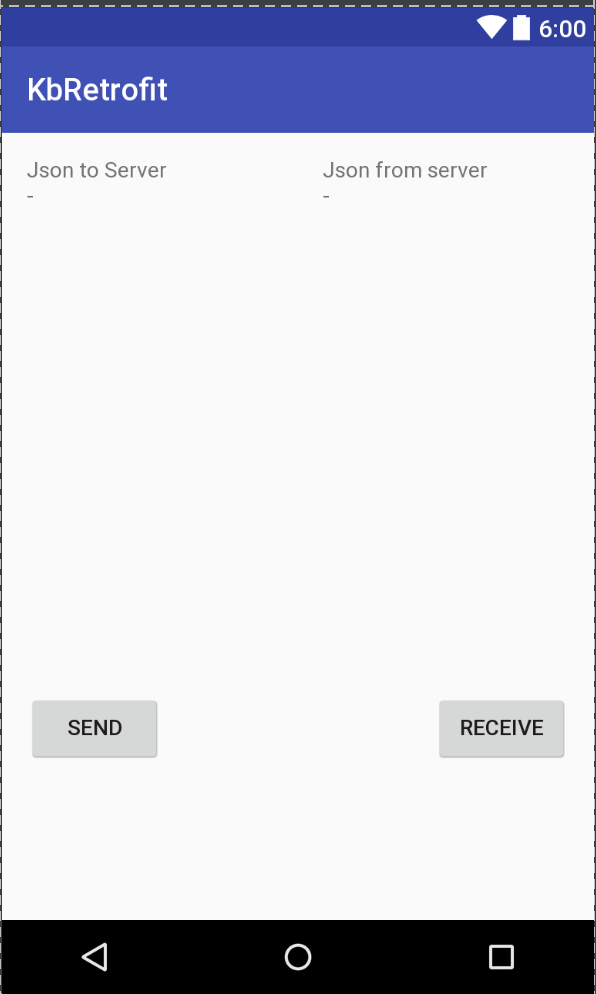
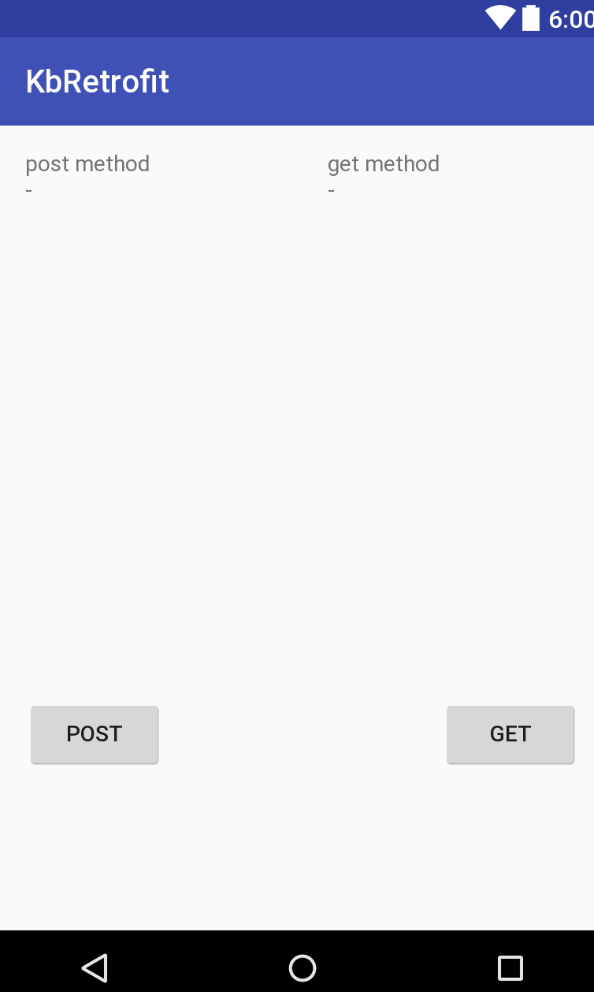
modified

Changed region(s): [[0.0, 0.0, 1.0, 1.0], [0.0606, 0.6875, 0.2727, 0.7812]]

diff --git a/KbRetrofit/app/src/main/java/com/example/kbpark/kbretrofit/MainActivity.java b/KbRetrofit/app/src/main/java/com/example/kbpark/kbretrofit/MainActivity.java
@@ -6,11 +6,10 @@ import android.util.Log;
 import android.view.View;
 import android.widget.TextView;
 
-import com.example.kbpark.kbretrofit.Retrofit.GithubServiceSample;
-import com.example.kbpark.kbretrofit.Retrofit.Login;
-import com.example.kbpark.kbretrofit.Retrofit.LoginResult;
-import com.example.kbpark.kbretrofit.Retrofit.Repo;
-import com.example.kbpark.kbretrofit.Retrofit.User;
+import com.example.kbpark.kbretrofit.Retrofit.GetResult;
+import com.example.kbpark.kbretrofit.Retrofit.GetService;
+import com.example.kbpark.kbretrofit.Retrofit.PostResult;
+import com.example.kbpark.kbretrofit.Retrofit.PostService;
 
 import java.util.Iterator;
 import java.util.List;
@@ -21,16 +20,14 @@ import retrofit2.GsonConverterFactory;
 import retrofit2.Response;
 import retrofit2.Retrofit;
 
-/**
- * Server로부터 읽어오기 : Github repos json으로 test
- * Server로 보내고 return 받기 : http://www.jsontest.com/#echo에 있는 'Echo JSON'으로 test 했음!
- */
+import static com.example.kbpark.kbretrofit.Retrofit.GetService.GET_BASE_URL;
+import static com.example.kbpark.kbretrofit.Retrofit.PostService.POST_BASE_URL;
 
 
 public class MainActivity extends AppCompatActivity {
 
-    TextView toServer;
-    TextView fromServer;
+    TextView post_text;
+    TextView get_text;
 
     @Override
     protected void onCreate(Bundle savedInstanceState)
@@ -38,85 +35,87 @@ public class MainActivity extends AppCompatActivity {
         super.onCreate(savedInstanceState);
         setContentView(R.layout.activity_main);
 
-        toServer = (TextView) findViewById(R.id.toServer);
-        fromServer = (TextView) findViewById(R.id.fromServer);
+        post_text = (TextView) findViewById(R.id.post_text);
+        get_text = (TextView) findViewById(R.id.get_text);
 
     }
 
-    public void onSendClicked(View v)
+    public void onGetClicked(View v)
     {
         /**
-         *  server로 json object 보내고, 다시 return받기
-         */
-
-        User user = new User("아이디와", "비밀번호"); // 임의의 user obj
-
-        Retrofit retrofit = new Retrofit.Builder()
-                .baseUrl("http://echo.jsontest.com")
-                .addConverterFactory(GsonConverterFactory.create())
-                .build();
-
-        Login login = retrofit.create(Login.class);
-        final Call<LoginResult> res = login.login(user.getId(), user.getPw());
-        //Log.d("git", "현재 res값 : " + res.request());
-
-        res.enqueue(new Callback<LoginResult>() {
-            @Override
-            public void onResponse(Call<LoginResult> call, Response<LoginResult> response) {
-
-                LoginResult loginResult = response.body();
-                toServer.append(loginResult.getKey());
-
-            }
-
-            @Override
-            public void onFailure(Call<LoginResult> call, Throwable t) {
-
-            }
-        });
-
-    }
-
-    public void onReceiveClicked(View v)
-    {
-        /**
-         *  server로부터 읽어오기
+         *  Get 방식 통신
+         *  test URL : https://api.github.com/users/{user}/repos
          */
 
         // 1.
         Retrofit retrofit = new Retrofit.Builder()
-                .baseUrl("https://api.github.com")
+                .baseUrl(GET_BASE_URL)
                 .addConverterFactory(GsonConverterFactory.create())
                 .build();
 
         // 2.
-        GithubServiceSample service = retrofit.create(GithubServiceSample.class);
-        Call<List<Repo>> repos = service.listRepos("uareuni");
+        GetService service = retrofit.create(GetService.class);
+        Call<List<GetResult>> repos = service.listRepos("uareuni");
 
         // 3.
-        repos.enqueue(new Callback<List<Repo>>() {
+        repos.enqueue(new Callback<List<GetResult>>() {
             @Override
-            public void onResponse(Call<List<Repo>> call, Response<List<Repo>> response) {
-                List<Repo> test = response.body(); // 이렇게 받아오면 됩니다.
+            public void onResponse(Call<List<GetResult>> call, Response<List<GetResult>> response) {
+                List<GetResult> test = response.body(); // 이렇게 받아오면 됩니다.
                 Log.d("git", "호출 성공!");
 
-                Iterator<Repo> itr = test.iterator();
+                Iterator<GetResult> itr = test.iterator();
                 while(itr.hasNext())
                 {
-                    fromServer.append(itr.next().getName() + "\n");
+                    get_text.append(itr.next().getName() + "\n");
 
                     // Log로 찍어보기
                     //Log.d("git", "name : " + itr.next().getName());
                 }
             }
             @Override
-            public void onFailure(Call<List<Repo>> call, Throwable t) {
+            public void onFailure(Call<List<GetResult>> call, Throwable t) {
                 Log.d("git", "호출 실패ㅠㅠ");
             }
         });
     }
 
 
+    public void onPostClicked(View v)
+    {
+        /**
+         *  Post 방식 통신
+         *  test URL : http://echo.jsontest.com/key/value/one/two
+         */
+
+        // 1.
+        Retrofit retrofit = new Retrofit.Builder()
+                .baseUrl(POST_BASE_URL)
+                .addConverterFactory(GsonConverterFactory.create())
+                .build();
+
+        // 2.
+        PostService postService = retrofit.create(PostService.class);
+        final Call<PostResult> res = postService.login("uareuni", "1234");
+        //Log.d("git", "현재 res값 : " + res.request());
+
+        // 3.
+        res.enqueue(new Callback<PostResult>() {
+            @Override
+            public void onResponse(Call<PostResult> call, Response<PostResult> response) {
+
+                PostResult postResult = response.body();
+                post_text.append(postResult.getKey());
+                post_text.append(postResult.getOne());
+
+            }
+
+            @Override
+            public void onFailure(Call<PostResult> call, Throwable t) {
+
+            }
+        });
+    }
 
 
 }

diff --git a/KbRetrofit/app/src/main/java/com/example/kbpark/kbretrofit/Retrofit/PostService.java b/KbRetrofit/app/src/main/java/com/example/kbpark/kbretrofit/Retrofit/PostService.java
@@ -1,0 +1,22 @@
+package com.example.kbpark.kbretrofit.Retrofit;
+
+import retrofit2.Call;
+import retrofit2.http.Field;
+import retrofit2.http.FormUrlEncoded;
+import retrofit2.http.POST;
+
+/**
+ * Created by KBPark on 2017. 1. 24..
+ */
+
+public interface PostService
+{
+    String POST_BASE_URL = "http://echo.jsontest.com";
+    String POST_ADDITIONAL_URL = "/key/value/one/two";
+
+
+    @FormUrlEncoded
+    @POST(POST_ADDITIONAL_URL)
+    Call<PostResult> login(@Field("user_id") String id,  // 얘네는 server에서 받을 data들?
+                           @Field("user_pw") String pw); // 얘네는 server에서 받을 data들?
+}

diff --git a/KbRetrofit/app/src/main/java/com/example/kbpark/kbretrofit/Retrofit/GetService.java b/KbRetrofit/app/src/main/java/com/example/kbpark/kbretrofit/Retrofit/GetService.java
@@ -1,0 +1,20 @@
+package com.example.kbpark.kbretrofit.Retrofit;
+
+import java.util.List;
+
+import retrofit2.Call;
+import retrofit2.http.GET;
+import retrofit2.http.Path;
+
+/**
+ * Created by KBPark on 2017. 1. 23..
+ */
+
+public interface GetService
+{
+    String GET_BASE_URL = "https://api.github.com";
+    String GET_ADDITIONAL_URL = "/users/{user}/repos";
+
+    @GET(GET_ADDITIONAL_URL)
+    Call<List<GetResult>> listRepos(@Path("user") String user);
+}

diff --git a/KbRetrofit/app/src/main/java/com/example/kbpark/kbretrofit/Retrofit/PostResult.java b/KbRetrofit/app/src/main/java/com/example/kbpark/kbretrofit/Retrofit/PostResult.java
@@ -1,0 +1,22 @@
+package com.example.kbpark.kbretrofit.Retrofit;
+
+/**
+ * Created by KBPark on 2017. 1. 24..
+ */
+
+public class PostResult
+{
+    private String key; // 얘네는 반드시
+    private String one; //
+
+    public String getKey()
+    {
+        return key;
+    }
+
+    public String getOne()
+    {
+        return one;
+    }
+
+}

diff --git a/KbRetrofit/app/src/main/java/com/example/kbpark/kbretrofit/Retrofit/GetResult.java b/KbRetrofit/app/src/main/java/com/example/kbpark/kbretrofit/Retrofit/GetResult.java
@@ -4,7 +4,7 @@ package com.example.kbpark.kbretrofit.Retrofit;
  * Created by KBPark on 2017. 1. 23..
  */
 
-public class Repo
+public class GetResult
 {
     int id;
     String name;
